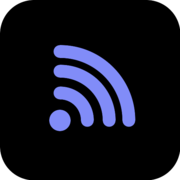
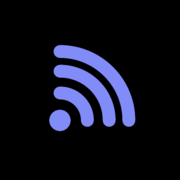
maskable と通知バッジに専用アイコンを用意する
計画レビュー（#173）の指摘に対応した。

1. maskable が角丸・四隅透過のままだった
   manifest は icon-512.png を purpose:"maskable" としても宣言していたが、
   この PNG は角丸SVGを -background none で描いたもので四隅が透過している。
   maskable は「全面が不透明で、ランチャーが好きな形に切り抜く」前提のため、
   円以外のマスク（角丸正方形・正方形）では角から壁紙が透けていた。
   角丸なし・全面塗りの icon-full.svg を追加し、そこから
   icon-maskable-512.png を生成して manifest の maskable を差し替えた。
   apple-touch-icon.png も同じ原本から出す（iOSは透過を黒で合成するため）。

2. 通知バッジに icon-192.png を流用していた
   Android のステータスバーはバッジ画像のアルファだけをマスクとして使い、
   不透明部分を白一色で塗り潰す。地色入りを渡すと形の判別できない塊になる。
   前景シルエットのみ・背景透過の icon-badge.svg を追加し、badge-72.png を
   sw.js の badge に向けた。

3. theme_color / background_color は変更しない
   これらはアイコンの地色ではなくUIの色（ツールバー色・起動スプラッシュ背景）で、
   実際のUI背景 --bg:#0d0d0d と揃えるべき値のため。今回は地色に黒を採用したので
   結果的にも変更は不要。

あわせて bump_version.py の sw.js 置換が icon-192.png 決め打ちだったのを
png 全般に広げた。決め打ちのままだと badge-72.png の ?v= が取り残される。

#173

diff --git a/frontend/sw.js b/frontend/sw.js
@@ -78,7 +78,7 @@ self.addEventListener('push', (event) => {
       await self.registration.showNotification(data.title || 'Signaly', {
         body: data.body || '',
         icon: 'icon-192.png?v=1.6.3',
-        badge: 'icon-192.png?v=1.6.3',
+        badge: 'badge-72.png?v=1.6.3',
         tag: data.id || undefined,
         data: {
           url: data.url || './',

diff --git a/scripts/generate_icons.py b/scripts/generate_icons.py
@@ -1,5 +1,5 @@
 #!/usr/bin/env python3
-"""icon.svg から PWA 用 PNG アイコンを生成する。"""
+"""原本の SVG から PWA / 通知用の PNG アイコンを生成する。"""
 import json
 import subprocess
 import sys
@@ -7,36 +7,46 @@ from pathlib import Path
 
 ROOT = Path(__file__).parent.parent
 FRONTEND = ROOT / "frontend"
-SVG = FRONTEND / "icon.svg"
 VERSION = json.loads((ROOT / "version.json").read_text())["version"]
 
+# 用途ごとに原本の SVG が違う。
+#   icon.svg       : 角丸タイル。ブラウザのタブ・PWA一覧など「そのまま表示される」用途（purpose:any）
+#   icon-full.svg  : 角丸なしの全面塗り。maskable と iOS のホーム画面アイコン用。
+#                    maskable はランチャー側が好きな形に切り抜く前提なので、四隅が透過だと
+#                    円以外のマスクで角が欠ける。iOS も透過を黒で合成するため不透明にしておく。
+#   icon-badge.svg : 前景シルエットのみ・背景透過。Android の通知バッジはアルファだけを
+#                    マスクとして使い不透明部分を白で塗り潰すため、地色入りを渡すと塊になる。
 OUTPUTS = [
-    ("icon-192.png", 192),
-    ("icon-512.png", 512),
-    ("apple-touch-icon.png", 180),
+    ("icon.svg", "icon-192.png", 192),
+    ("icon.svg", "icon-512.png", 512),
+    ("icon-full.svg", "icon-maskable-512.png", 512),
+    ("icon-full.svg", "apple-touch-icon.png", 180),
+    ("icon-badge.svg", "badge-72.png", 72),
 ]
 
 
 def main() -> None:
-    if not SVG.is_file():
-        print(f"エラー: {SVG} が見つかりません", file=sys.stderr)
-        sys.exit(1)
+    for source in {src for src, _, _ in OUTPUTS}:
+        svg = FRONTEND / source
+        if not svg.is_file():
+            print(f"エラー: {svg} が見つかりません", file=sys.stderr)
+            sys.exit(1)
 
-    for name, size in OUTPUTS:
+    for source, name, size in OUTPUTS:
         out = FRONTEND / name
         subprocess.run(
             [
                 "convert",
                 "-background",
                 "none",
-                str(SVG),
+                str(FRONTEND / source),
                 "-resize",
                 f"{size}x{size}",
                 str(out),
             ],
             check=True,
         )
-        print(f"生成: {out.name}")
+        print(f"生成: {out.name}（{source}）")
 
     print(f"manifest / HTML のアイコン URL は ?v={VERSION} に合わせてください。")
 

diff --git a/scripts/bump_version.py b/scripts/bump_version.py
@@ -41,7 +41,8 @@ def sync_asset_versions(version: str) -> None:
 
     sw = FRONTEND_DIR / "sw.js"
     text = sw.read_text(encoding="utf-8")
-    text = re.sub(r"icon-192\.png\?v=[0-9.]+", f"icon-192.png?v={version}", text)
+    # icon-192.png 決め打ちだと、通知バッジ用の badge-72.png が取り残される（#173）
+    text = re.sub(r"(\.png)\?v=[0-9.]+", rf"\1?v={version}", text)
     sw.write_text(text, encoding="utf-8")
     print(f"sw.js のアイコン URL を v={version} に更新しました。")
 

diff --git a/CLAUDE.md b/CLAUDE.md
@@ -55,22 +55,39 @@ patch.object(main, "send_push_notifications", lambda entry: None)
 
 ### アイコン
 
-`frontend/icon.svg` が唯一の原本で、PNG3枚（`icon-192.png` / `icon-512.png` /
-`apple-touch-icon.png`）は `scripts/generate_icons.py` が生成する。**PNGを直接編集しないこと。**
+**原本の SVG は3枚ある。用途ごとに要件が違うので、1枚で兼ねられない。**
+PNG は `scripts/generate_icons.py` が生成する。**PNGを直接編集しないこと。**
 
-**このスクリプトは ImageMagick の `convert` を呼ぶ。** subpc には既定で入っていないため、
-アイコンを差し替えるときは先に `sudo apt install -y imagemagick librsvg2-bin` が要る
-（`librsvg2-bin` はImageMagickがSVGを正しく描くための描画エンジン。無いと内蔵の簡易レンダラに
-落ちて、arc や `stroke-linecap` が壊れる）。sudo はパスワードを求めるのでエージェントは実行できない。
+| 原本 | 生成物 | 要件 |
+|---|---|---|
+| `frontend/icon.svg` | `icon-192.png` / `icon-512.png` | 角丸タイル。そのまま表示される用途（`purpose:any`・タブ・PWA一覧） |
+| `frontend/icon-full.svg` | `icon-maskable-512.png` / `apple-touch-icon.png` | **角丸なし・四隅まで不透明。** |
+| `frontend/icon-badge.svg` | `badge-72.png` | **前景シルエットのみ・背景透過・単色。** |
 
-**図形は中央 半径205px（キャンバスの80%）の円の内側に収めること。** `manifest.json` は
-`icon-512.png` を `purpose:"maskable"` としても宣言しており、Androidのランチャーは
-この安全円の外を切り落とす。v1.6.3以前の稲妻は下端の尖端が206.6pxにあり、1.8pxだけはみ出していた
-（#173。見た目の実害はほぼ無い程度だが、新しい図形は余裕をもって内側に収めること）。
+**maskable を角丸で作らないこと。** maskable は「全面が不透明で、ランチャーが好きな形に切り抜く」
+前提のアセット。`convert -background none` で角丸SVGをPNG化すると四隅が透過のまま残り、
+円マスク以外（角丸正方形・正方形）では角から壁紙が透ける。iOS も `apple-touch-icon` の透過を
+黒で合成するため、地色を黒以外にすると四隅にだけ黒が残る（#173）。
+
+**通知バッジに `icon-192.png` を流用しないこと。** Android のステータスバーはバッジ画像の
+**アルファチャンネルだけ**をマスクとして使い、不透明部分を白一色で塗り潰す。地色入りの
+アイコンを渡すと角丸矩形の塊になり、形が一切判別できない（#173）。
+
+**図形は中央 半径205px（キャンバスの80%）の円の内側に収めること。** Androidのランチャーは
+maskable のこの安全円の外を切り落とす。v1.6.3以前の稲妻は下端の尖端が206.6pxにあり、
+1.8pxだけはみ出していた（見た目の実害はほぼ無い程度だが、新しい図形は余裕をもって内側に）。
 
 **`?v=` は手で書き換えない。** `scripts/bump_version.py` が `manifest.json`・`index.html`・
 `api-key-docs.html`・`sw.js` を一括で揃える。したがってアイコンを差し替えても、ブラウザや
 インストール済みPWAのキャッシュが入れ替わるのは**次のバージョン更新のタイミング**になる。
+**アセットを増やしたら `sw.js` 側の置換が届いているか確かめること**（以前は `icon-192.png`
+決め打ちの正規表現だった）。
+
+**`theme_color` / `background_color` はアイコンの地色ではなくUIの色。** 前者はブラウザ/OSの
+ツールバー色、後者はPWA起動時スプラッシュの背景色で、実際のUI背景（`--bg: #0d0d0d`）と揃える。
+アイコンの地色を変えてもここは追随させない。変える場合は `manifest.json` だけでなく
+`index.html`・`api-key-docs.html`・`webhook-docs.html` の `<meta name="theme-color">` も
+セットで直すこと（4か所ある）。
 
 ### シークレットの取得先
 
